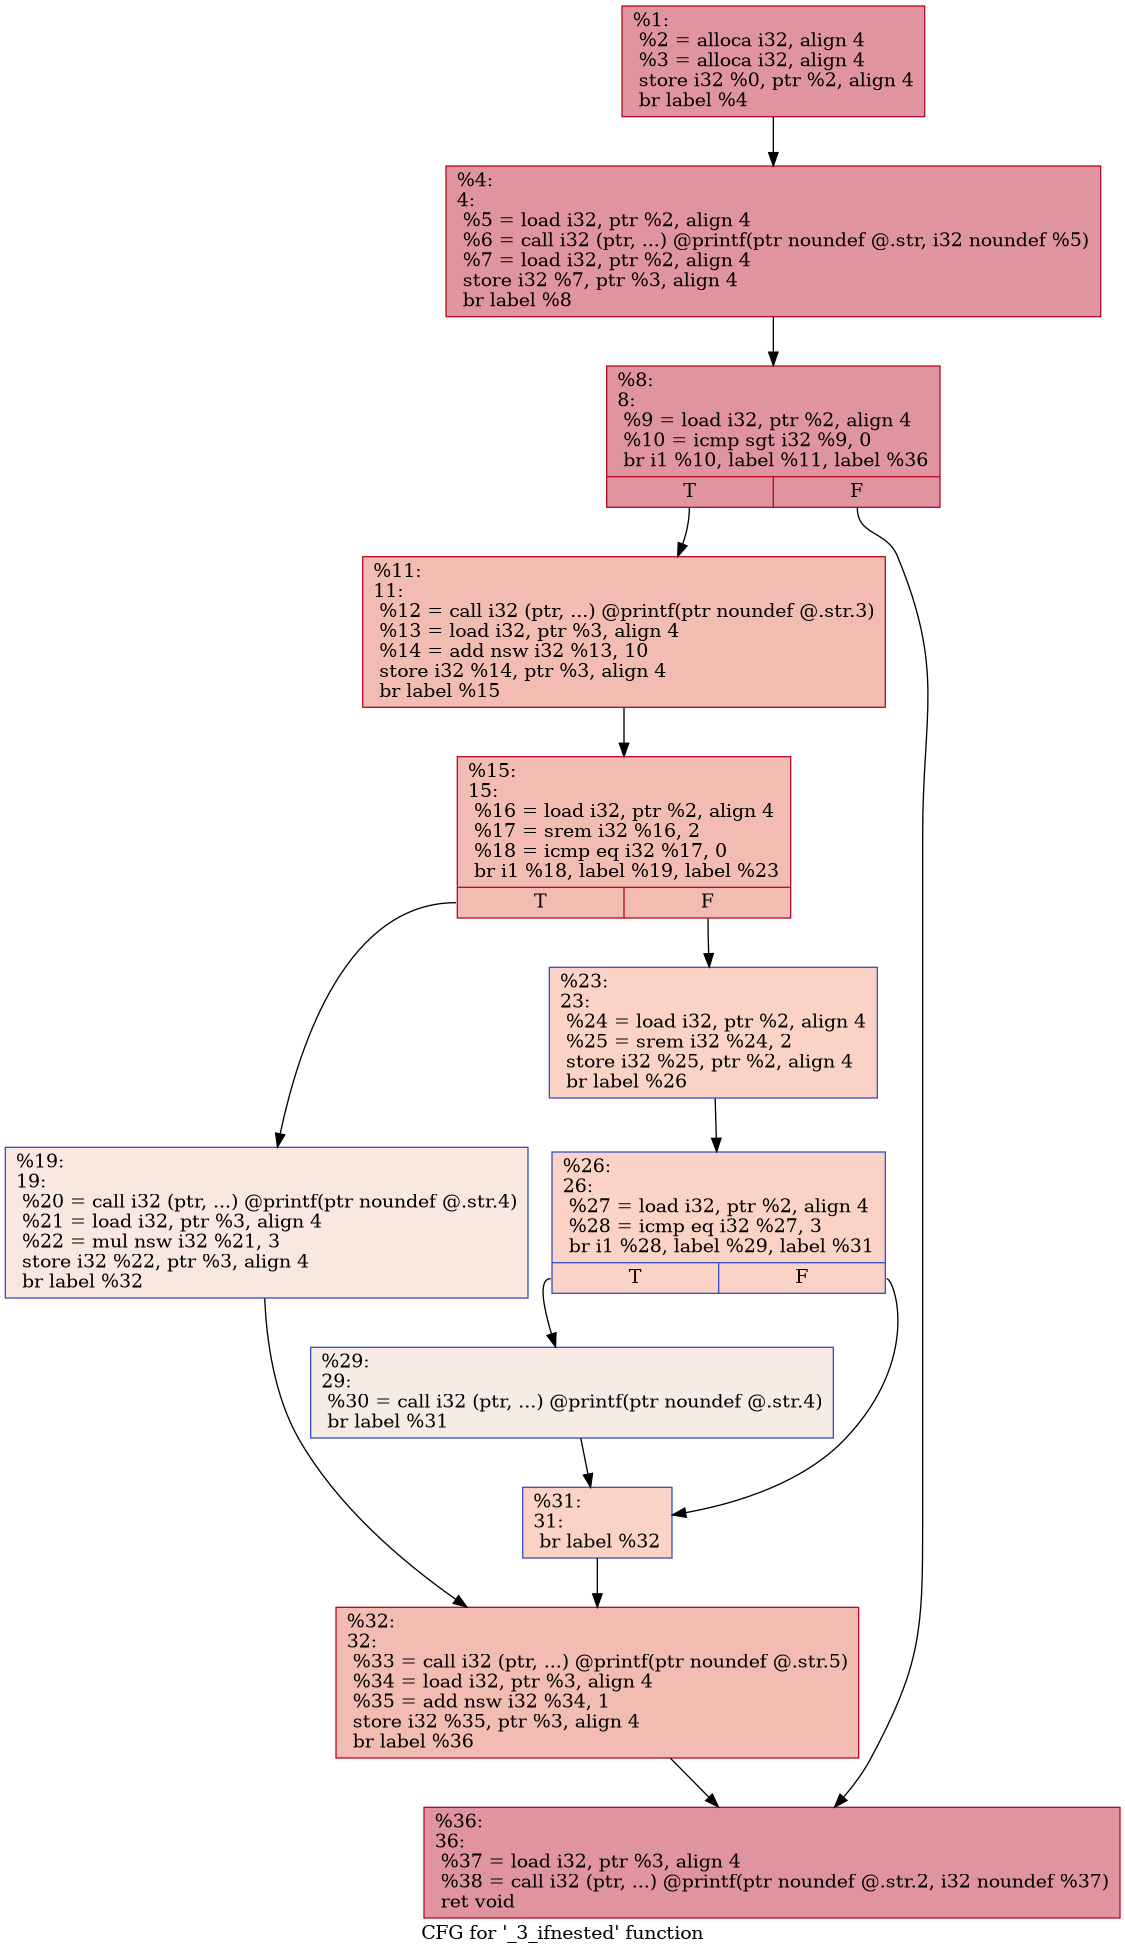
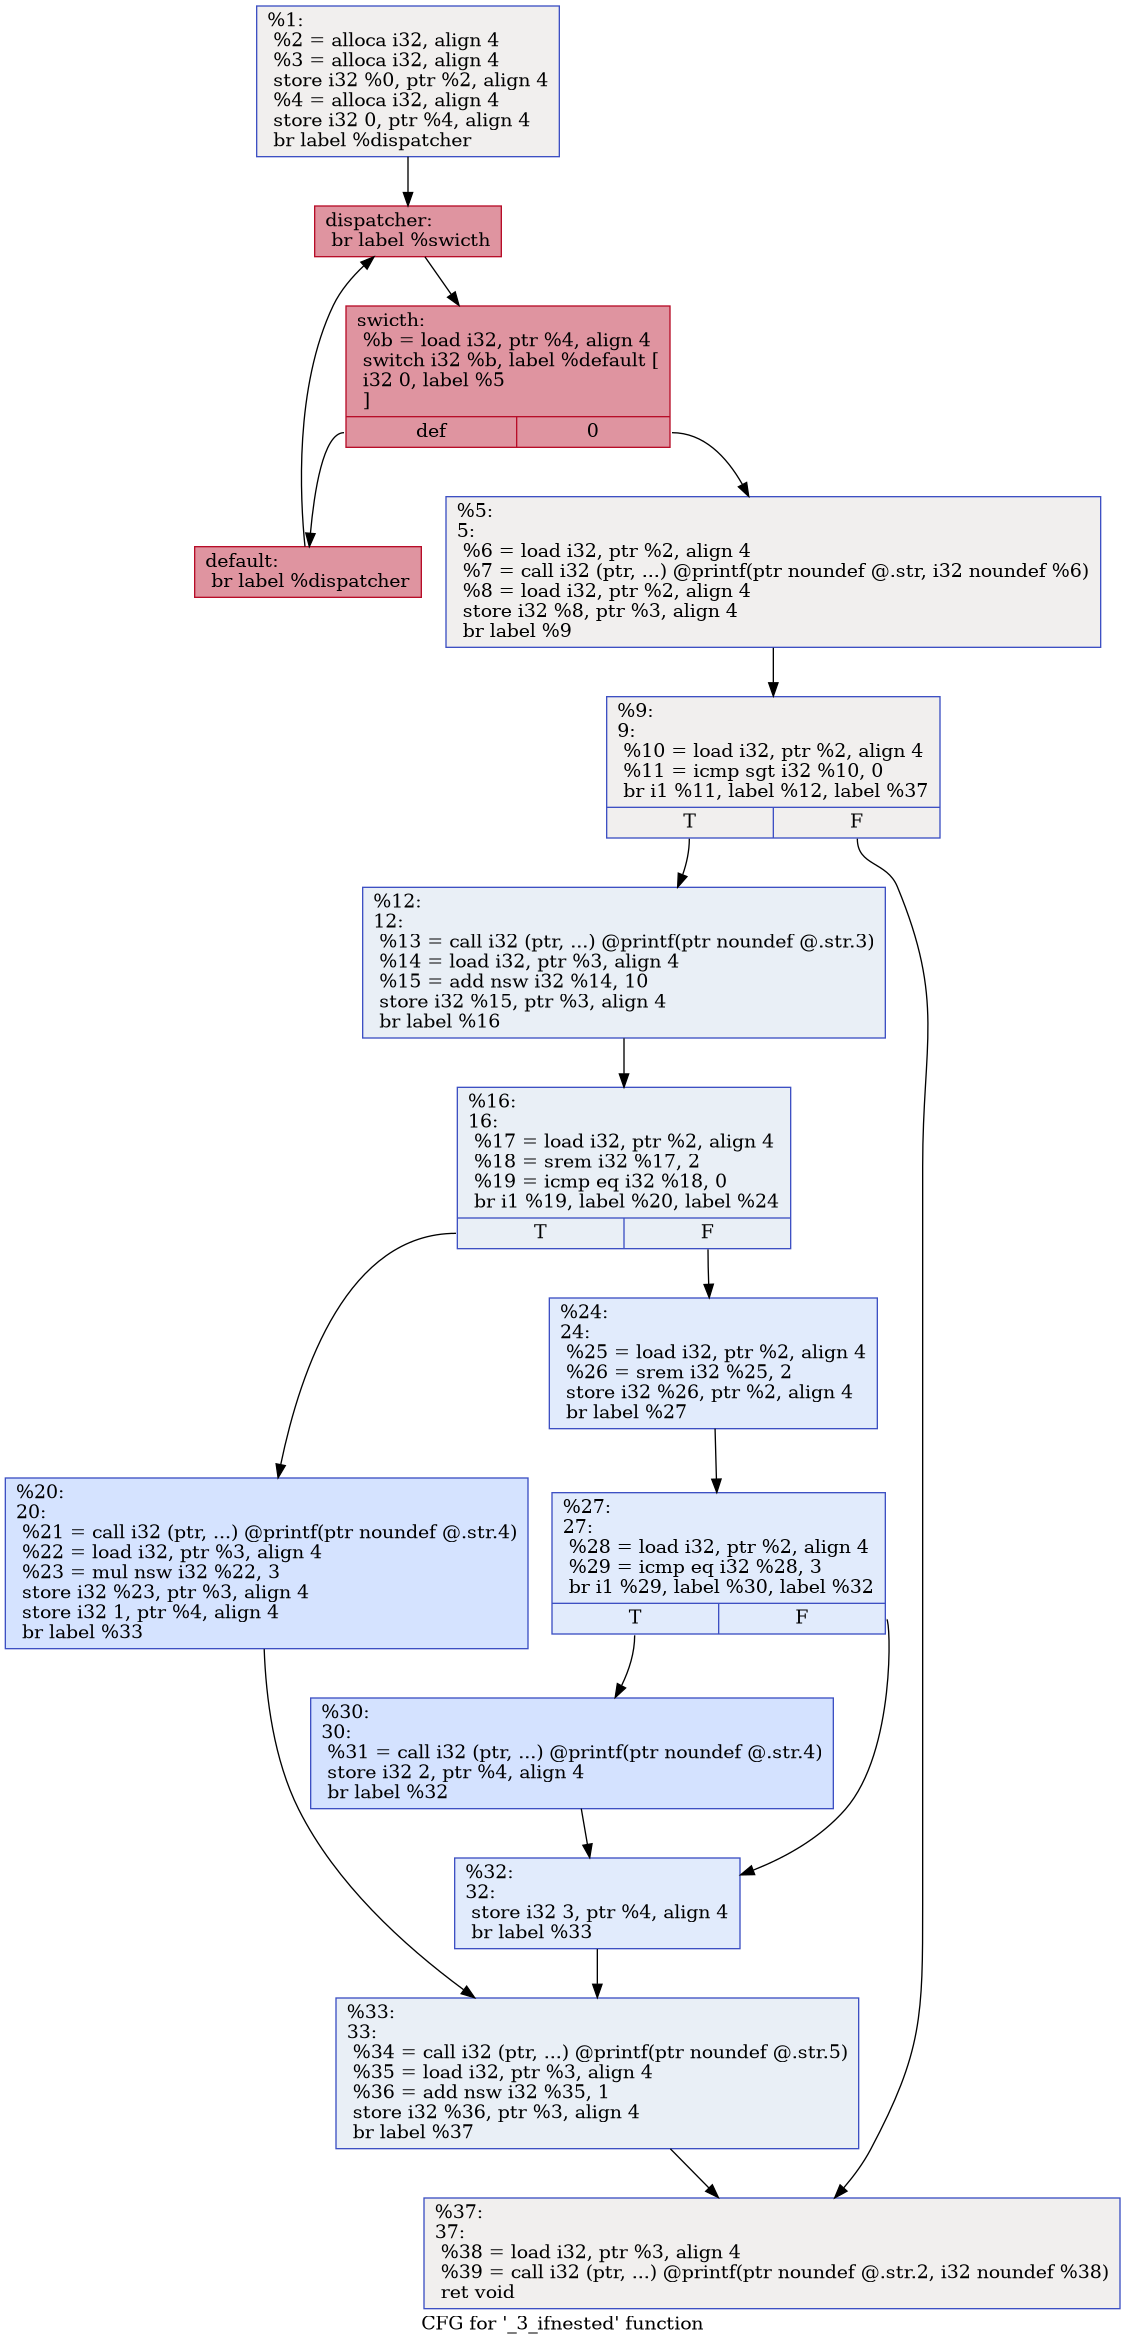
added state counter logic + dispatcher (only case 0 and default)

diff --git a/lib/ControlFlowFlatteningPass.cpp b/lib/ControlFlowFlatteningPass.cpp
@@ -2,6 +2,7 @@
 #include "llvm/IR/Function.h"
 #include "llvm/IR/IRBuilder.h"
 #include "llvm/IR/BasicBlock.h"
+#include "llvm/IR/IRBuilder.h"
 #include "llvm/IR/Instructions.h"
 #include "llvm/Support/raw_ostream.h"
 #include "llvm/IR/Instructions.h" 
@@ -9,6 +10,54 @@
 
 using namespace llvm;
 
+
+
+static void createDispatcher(BasicBlock *BB, AllocaInst *allocaIns){
+    Function *F = BB->getParent();
+
+    //dispatcher block -> while
+    BasicBlock *dispatcherBB = BasicBlock::Create(F->getContext(), "dispatcher", F);
+    IRBuilder<> dispatcherBuilder(dispatcherBB);
+    
+    //default block
+    BasicBlock *defaultBB = BasicBlock::Create(F->getContext(), "default", F);
+    IRBuilder<> defaultBuilder(defaultBB);
+    defaultBuilder.CreateBr(dispatcherBB);
+
+    //switch block
+    BasicBlock *switchBB = BasicBlock::Create(F->getContext(), "swicth", F);
+    IRBuilder<> switchBuilder(switchBB);
+    Value *stateVal = switchBuilder.CreateLoad(switchBuilder.getInt32Ty(), allocaIns, "b");
+    SwitchInst *switchIns = switchBuilder.CreateSwitch(stateVal, defaultBB, 1);
+    dispatcherBuilder.CreateBr(switchBB);
+
+
+    auto *BBTerm = dyn_cast<BranchInst>(BB->getTerminator());
+    BasicBlock *nextBB = BBTerm->getSuccessor(0);
+
+    switchIns->addCase(switchBuilder.getInt32(0), nextBB);   
+
+    BBTerm->setSuccessor(0, dispatcherBB);
+}
+
+//static updateDispatcher(){}
+static int getCounter(bool restore){
+    static int counter=0;
+    if(restore) {
+        counter=0;
+        return counter;
+    }
+    return counter++;
+}
+static void addStateInstruction(BasicBlock &BB, bool isDeclared, AllocaInst *&allocaIns){
+    IRBuilder<> builder(BB.getTerminator());
+    if(!isDeclared){
+       // AllocaInst * llvm::IRBuilderBase::CreateAlloca(Type *	Ty,Value *	ArraySize = nullptr,const Twine &	Name = "" )
+        allocaIns = builder.CreateAlloca(builder.getInt32Ty(), nullptr); 
+    }
+    //StoreInst * llvm::IRBuilderBase::CreateStore(Value *	Val,Value *	Ptr,bool	isVolatile = false )
+    builder.CreateStore(builder.getInt32(getCounter(false)), allocaIns);
+}
 static Argument* getlastArg(Function &F){
     Argument *lastArg = nullptr;
     for (Argument &Arg : F.args()) {
@@ -33,7 +82,7 @@ static void doZigZag(BasicBlock &BB, Instruction *I, SmallPtrSetImpl<Instruction
     }
 }
 
-static void splitBB(BasicBlock &BB, Argument *lastArg){
+static void splitBB(BasicBlock &BB, Argument *lastArg, AllocaInst *&allocaIns){
     for(auto It = BB.begin(), End = BB.end(); It != End; ++It){
         Instruction *I=&*It;
         if(isa<AllocaInst>(I)){
@@ -45,7 +94,10 @@ static void splitBB(BasicBlock &BB, Argument *lastArg){
             }
             errs() << "[alloca-split] splitting after: " << *I << "\n";
             BasicBlock *secondBlock = BB.splitBasicBlock(I->getNextNode());
-            splitBB(*secondBlock,lastArg);
+            BasicBlock *firstBlock = &BB;
+            addStateInstruction(*firstBlock, false, allocaIns);
+            createDispatcher(firstBlock, allocaIns);
+            splitBB(*secondBlock,lastArg, allocaIns);
             return;
         }
 
@@ -55,11 +107,12 @@ static void splitBB(BasicBlock &BB, Argument *lastArg){
         //traversal onto the block from the True side (which is getSuccessor(0)). If nested it will go
         //deep until it reaches to an uncoditional brance (see 2 below). then, it will go back and go
         //check the False side and do the same. If stmt? -> then split
-        // 2. for uncoditional basic blocks it will just stop here for now. It will stop the recursion
+        // 2. for uncoditional basic blocks it will add the state counter, for example b=2 which means go to case 2
         if(isa<BranchInst>(I)){ 
             auto *BI = dyn_cast<BranchInst>(I);
             if (!BI->isConditional()) {
                 errs() << "[branch] unconditional, skipping: " << *BI << "\n";
+                addStateInstruction(BB, true,allocaIns);
                 return ;
             }
 
@@ -92,8 +145,8 @@ static void splitBB(BasicBlock &BB, Argument *lastArg){
                 BasicBlock *secondBlock = br->getSuccessor(0);
                 errs() << "secondBlock: " << *secondBlock << "\n";
                 br = dyn_cast<BranchInst>(secondBlock->getTerminator());
-                splitBB(*br->getSuccessor(0),lastArg);
-                splitBB(*br->getSuccessor(1),lastArg);
+                splitBB(*br->getSuccessor(0),lastArg, allocaIns);
+                splitBB(*br->getSuccessor(1),lastArg, allocaIns);
             }
             errs() << "[branch-split] no earliest instruction found\n";
             return;
@@ -101,14 +154,15 @@ static void splitBB(BasicBlock &BB, Argument *lastArg){
     }
 }
 static void flattenFunction(Function& F){
-    splitBB(F.getEntryBlock(), getlastArg(F));
+    AllocaInst *allocaIns = nullptr;
+    splitBB(F.getEntryBlock(), getlastArg(F),allocaIns);
 }
 PreservedAnalyses ControlFlowFlatteningPass::run(Module &M, ModuleAnalysisManager &MAM) {
     for (Function &F : M) {
         if(F.isDeclaration() || F.getName() == "main") continue;
         errs() << "Function: " << F.getName() << "\n\n";
         flattenFunction(F);
-            
+        getCounter(true);
     }
     return PreservedAnalyses::none();
 }
